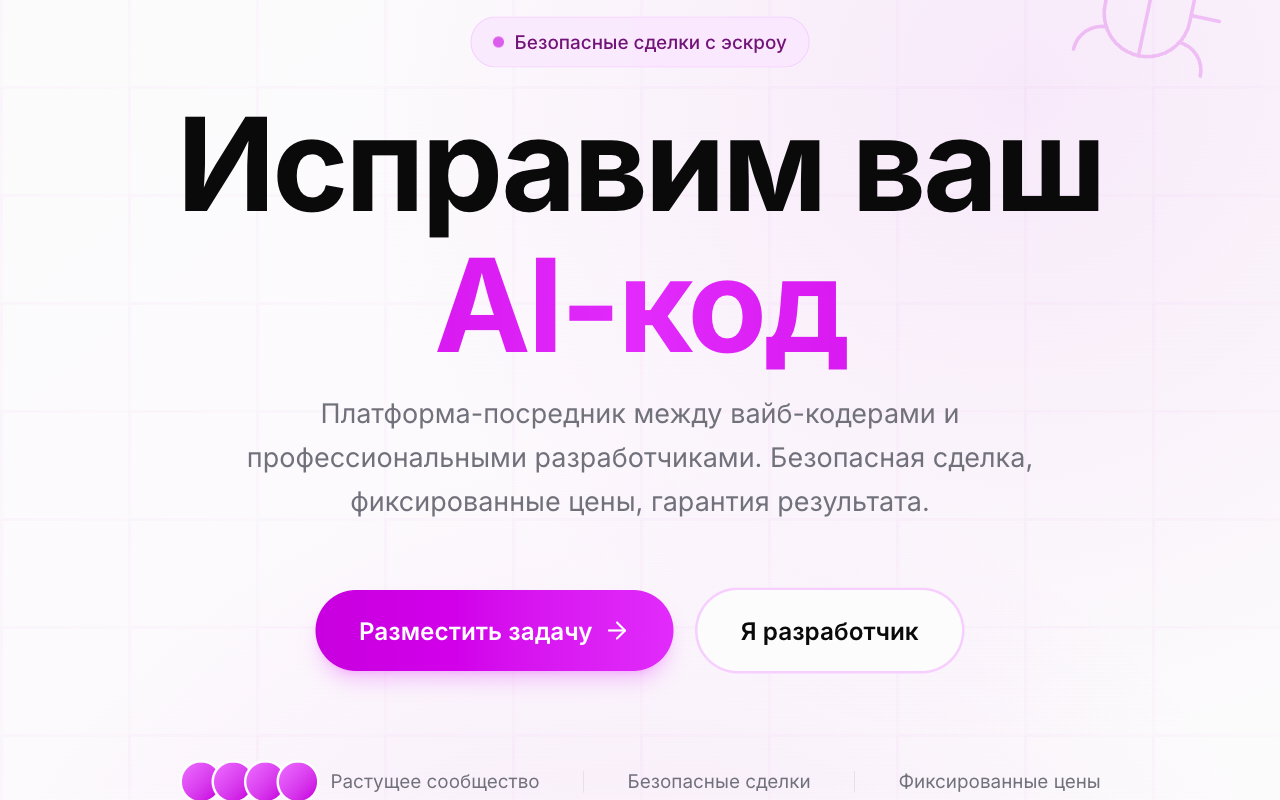
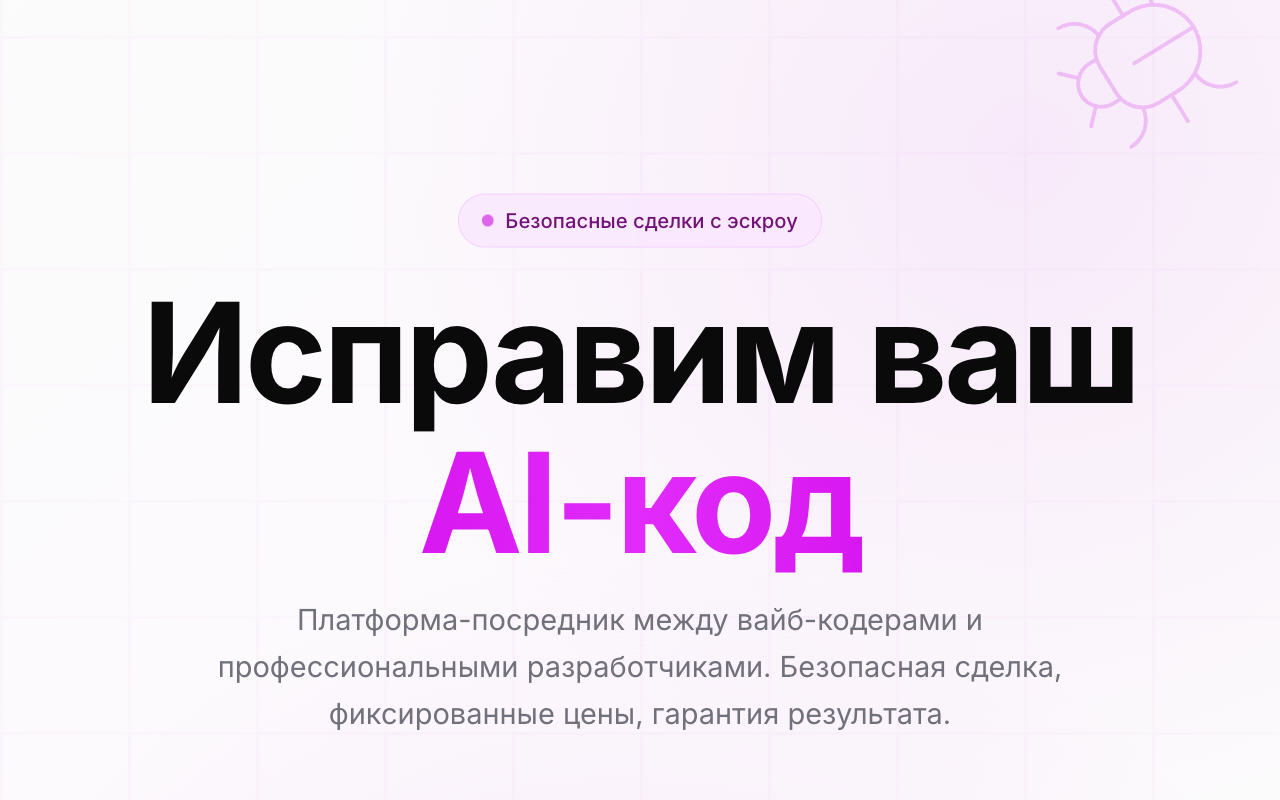
fix(projects): strip CTA buttons and bottom proof row from VibeFix cover
- Hide 'Разместить задачу' / 'Я разработчик' buttons before screenshot
- Hide 'Растущее сообщество | Безопасные сделки | Фиксированные цены' row
- Bump zoom to 1.45x — cover now shows only headline, subhead and bug icon
- Drop Tailwind from tech list so tags fit on a single row, height-aligned
  with neighbouring cards

diff --git a/obsidian-vault/en/projects/vibefix.md b/obsidian-vault/en/projects/vibefix.md
@@ -7,7 +7,7 @@ slug: "/projects/vibefix"
 type: "project"
 status: "wip"
 year: "2026"
-tech: "Next.js 16, React 19, FastAPI, Supabase, TypeScript, Tailwind"
+tech: "Next.js 16, React 19, FastAPI, Supabase, TypeScript"
 github: "https://github.com/russiankendricklamar/vibefix"
 demo: "https://frontend-seven-pied-38.vercel.app/"
 image: "/projects/vibefix.png"

diff --git a/obsidian-vault/ru/projects/vibefix.md b/obsidian-vault/ru/projects/vibefix.md
@@ -7,7 +7,7 @@ slug: "/projects/vibefix"
 type: "project"
 status: "wip"
 year: "2026"
-tech: "Next.js 16, React 19, FastAPI, Supabase, TypeScript, Tailwind"
+tech: "Next.js 16, React 19, FastAPI, Supabase, TypeScript"
 github: "https://github.com/russiankendricklamar/vibefix"
 demo: "https://frontend-seven-pied-38.vercel.app/"
 image: "/projects/vibefix.png"
